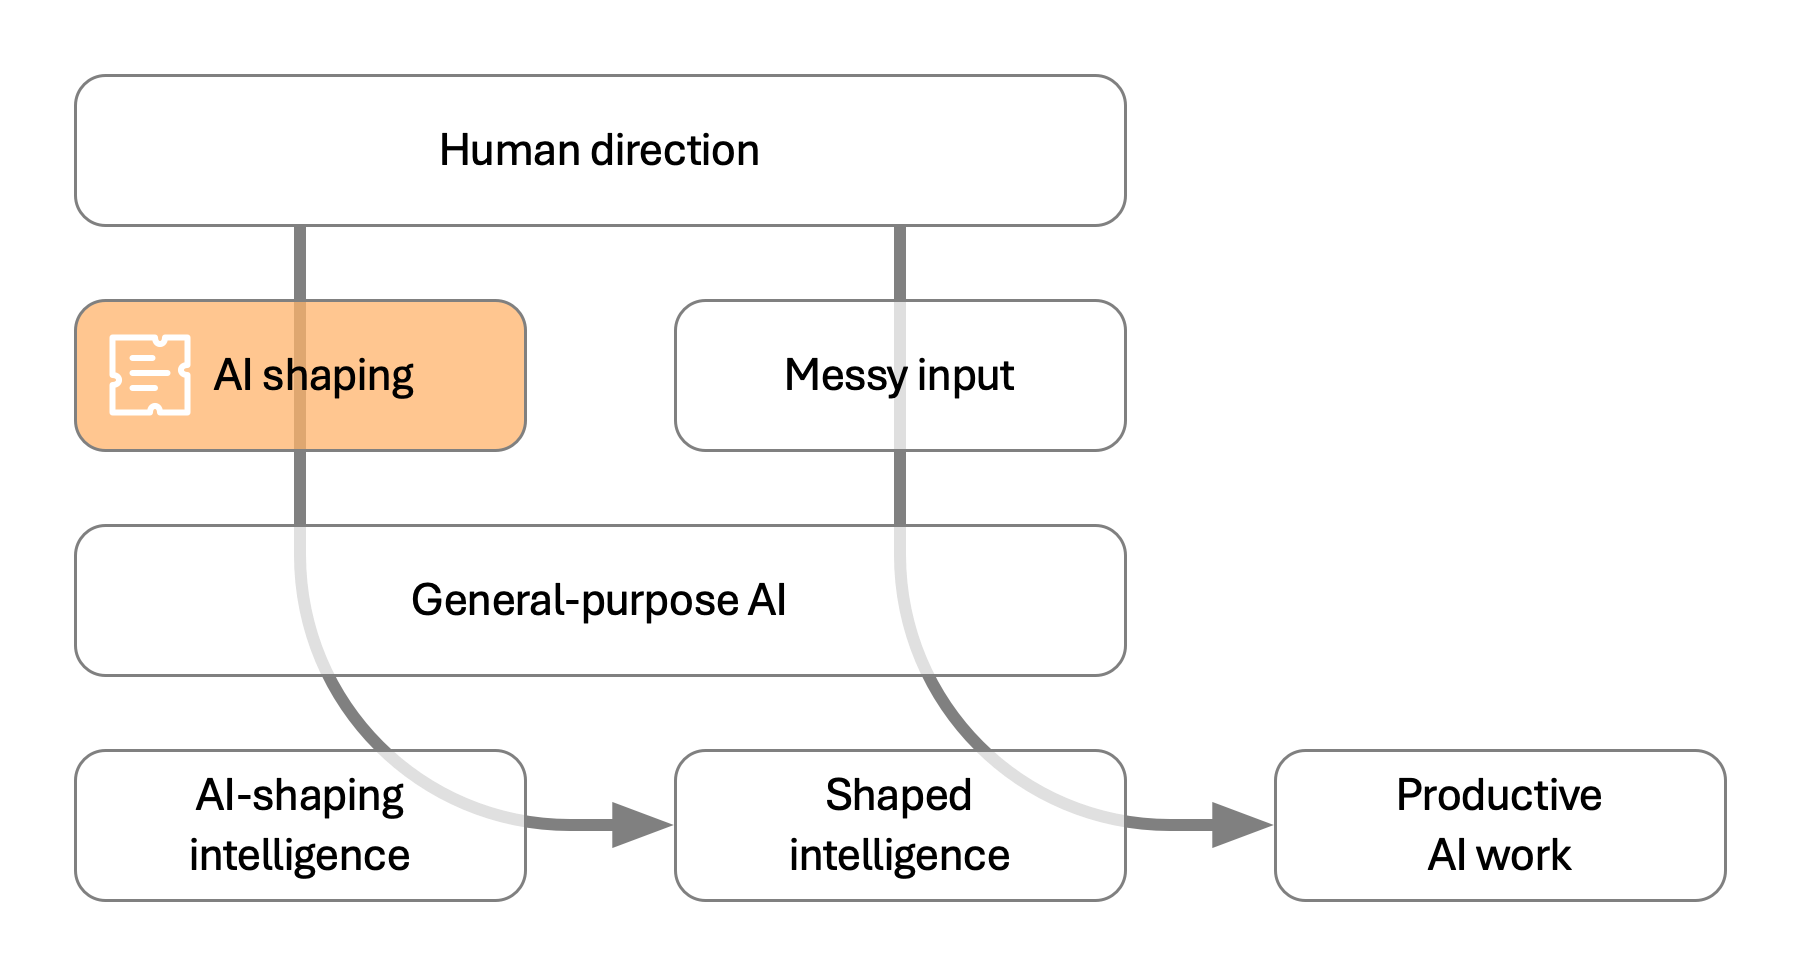
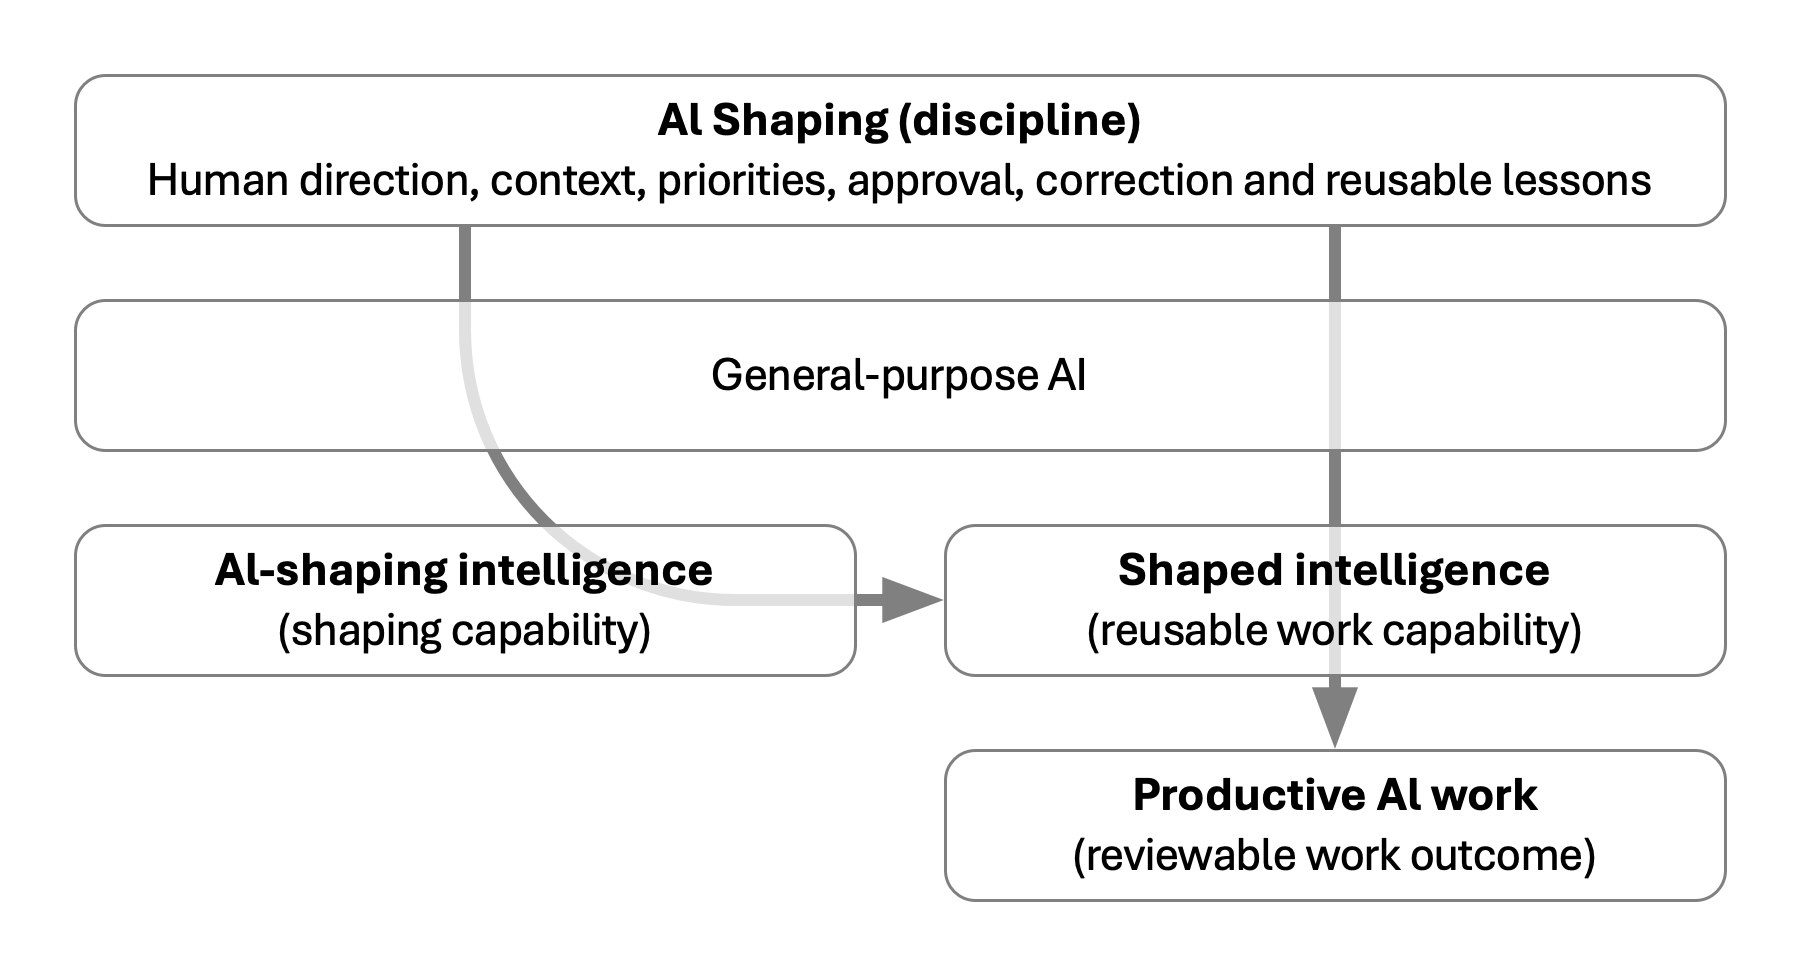
Use canonical universal hero diagrams

diff --git a/ai-shaping/index.html b/ai-shaping/index.html
@@ -79,7 +79,7 @@
 <h1>AI shaping turns useful AI output into productive AI work</h1>
 <p class="lead">AI shaping gives general-purpose AI a practice-guided, subject-aware work pattern and work state so useful output can become grounded, reviewable, repeatable and resumable productive AI work under human direction.</p>
 <figure class="figure-card hero-diagram">
-<img alt="Concept-stack diagram highlighting AI shaping as the operating-model discipline that supports productive AI work under human direction." decoding="async" fetchpriority="high" height="975" loading="eager" src="/assets/images/ai-shaping-concept-stack-diagram.png" width="1800"/>
+<img alt="Concept-stack diagram highlighting AI shaping as the operating-model discipline that supports productive AI work under human direction." width="1800" height="975" decoding="async" fetchpriority="high" loading="eager" src="/assets/images/ai-shaping-concept-stack-diagram.png"/>
 <figcaption>AI shaping is the operating-model discipline that gives general-purpose AI a reusable work pattern under human direction.</figcaption>
 </figure>
 </section>
@@ -114,10 +114,12 @@
 <h2>Concept stack in one view</h2>
 <p>AI shaping sits above the work capability it creates. Human direction, context, priorities, approval, correction and reusable lessons guide AI-shaping intelligence; AI-shaping intelligence shapes reusable work capability; shaped intelligence supports productive AI work as a reviewable work outcome.</p>
 <figure class="figure-card">
-<picture>
-<source media="(prefers-color-scheme: dark)" srcset="/assets/images/ai-shaping-concept-stack-diagram-dark-transparent.png"/>
-<img alt="Diagram showing AI shaping as a discipline where human direction, context, priorities, approval, correction and reusable lessons guide AI-shaping intelligence, which shapes reusable work capability and supports productive AI work." decoding="async" height="723" loading="lazy" src="/assets/images/ai-shaping-concept-stack-diagram-light-transparent.png" width="1302"/>
-</picture>
+<img
+  src="/assets/images/ai-shaping-concept-stack-diagram.png"
+  alt="Diagram showing AI shaping as a discipline where human direction, context, priorities, approval, correction and reusable lessons guide AI-shaping intelligence, which shapes reusable work capability and supports productive AI work." width="1800" height="975"
+  loading="lazy"
+  decoding="async"
+/>
 <figcaption>AI shaping uses human direction, context, priorities, approval, correction and reusable lessons to shape AI capability into reusable work capability and productive AI work.</figcaption>
 </figure>
 </section>

diff --git a/index.html b/index.html
@@ -191,10 +191,12 @@
 <h2>Concept stack, compact</h2>
 <p>The formal terms are secondary to the practical value: <a href="/ai-shaping/">AI shaping</a> is the discipline; <a href="/ai-shaping-intelligence/">AI-shaping intelligence</a> builds and renews the shaping pattern; <a href="/shaped-intelligence/">shaped intelligence</a> carries reusable domain-facing work capability; <a href="/productive-ai-work/">productive AI work</a> is the grounded, reviewable, repeatable and resumable work outcome under human direction.</p>
 <figure class="figure-card">
-<picture>
-<source media="(prefers-color-scheme: dark)" srcset="/assets/images/ai-shaping-concept-stack-diagram-dark-transparent.png"/>
-<img alt="Diagram showing AI shaping as a discipline where human direction, context, priorities, approval, correction and reusable lessons guide AI-shaping intelligence, which shapes reusable work capability and supports productive AI work." decoding="async" height="723" loading="lazy" src="/assets/images/ai-shaping-concept-stack-diagram-light-transparent.png" width="1302"/>
-</picture>
+<img
+  src="/assets/images/ai-shaping-concept-stack-diagram.png"
+  alt="Diagram showing AI shaping as a discipline where human direction, context, priorities, approval, correction and reusable lessons guide AI-shaping intelligence, which shapes reusable work capability and supports productive AI work." width="1800" height="975"
+  loading="lazy"
+  decoding="async"
+/>
 <figcaption>The concept stack is available for readers who want the formal terms after the value proposition is clear.</figcaption>
 </figure>
 </section>

diff --git a/work-burden-shift/index.html b/work-burden-shift/index.html
@@ -79,7 +79,7 @@
 <h1>Work-burden shift shows what AI shaping changes</h1>
 <p class="lead">Work-burden shift is the before/after signal that AI is carrying more of the work pattern, domain-practice application, subject-context reasoning and work state while humans keep judgement, approval and real-world action.</p>
 <figure class="figure-card hero-diagram">
-<img alt="Before and after diagram showing work burden shifting from human reconstruction in ordinary AI use to shaped intelligence carrying context, practice guidance and subject context under AI shaping." decoding="async" fetchpriority="high" height="978" loading="eager" src="/assets/images/work-burden-shift-before-after-diagram.png" width="1800"/>
+<img alt="Before and after diagram showing work burden shifting from human reconstruction in ordinary AI use to shaped intelligence carrying context, practice guidance and subject context under AI shaping." width="1800" height="975" decoding="async" fetchpriority="high" loading="eager" src="/assets/images/work-burden-shift-before-after-diagram.png"/>
 <figcaption>AI shaping shifts more recurring reconstruction, interpretation, practice-guidance and subject-context burden from the human to shaped intelligence, while human review, decision, sending and escalation remain intact.</figcaption>
 </figure>
 </section>

diff --git a/docs/site-governance.md b/docs/site-governance.md
@@ -260,7 +260,7 @@ Use this allocation as the canonical hero-image map:
 |---|---|---|
 | `/` | `ai-shaping-to-productive-ai-work-diagram.png` | Homepage value path from AI shaping and general-purpose AI to productive AI work. |
 | `/ai-shaping-in-5-minutes/` | `ai-shaping-to-productive-ai-work-diagram.png` | Cold-reader value path before formal terminology. |
-| `/ai-shaping/` | `ai-shaping-concept-stack-diagram.png` | Highlight the AI shaping category term. |
+| `/ai-shaping/` | `ai-shaping-concept-stack-diagram.png` | Show AI shaping as the discipline that guides general-purpose AI through AI-shaping intelligence and shaped intelligence into productive AI work under human direction. |
 | `/ai-shaping-intelligence/` | `ai-shaping-intelligence-concept-stack-diagram.png` | Highlight the reusable shaping capability. |
 | `/shaped-intelligence/` | `shaped-intelligence-concept-stack-diagram.png` | Highlight the reusable domain-facing capability. |
 | `/productive-ai-work/` | `productive-ai-work-concept-stack-diagram.png` | Highlight the outcome: productive AI work. |
@@ -282,7 +282,7 @@ Hero diagram rules:
 - Use lowercase, hyphenated, descriptive PNG filenames that include the primary keyword and diagram type.
 - Do not use `highlighted`, version suffixes or duplicate fallback filenames in public image names.
 - Each hero image must have descriptive alt text and a caption that reinforces the page role without adding new claims.
-- If a neutral fallback image is kept for internal use, document it as an alternative, not as a separate page assignment.
+- If an alternative or fallback image is kept for internal use, document it as an internal alternative only; do not reference it from public HTML unless it is intentionally part of the public image strategy.
 
 
 ## 15A. Site icon and favicon governance
@@ -472,3 +472,10 @@ If a future development note would reveal protected method detail, keep it out o
 `README.md`, `README-upload.txt` and files under `docs/` are repository-maintenance artefacts. They support source control, not the public reader journey.
 
 They should not be linked from public navigation, included in `sitemap.xml`, or used as public explanations of AI shaping. If a repository or governance note must become reader-facing, convert it into a governed HTML page with title, H1, metadata, canonical URL, sitemap decision and public/protected boundary review.
+
+### Hero diagram variant discipline
+
+- Prefer one stable canonical hero image per page that works in both light and dark presentation contexts.
+- Do not keep separate light/dark public image variants unless a specific accessibility or legibility need is documented.
+- When replacing an image with changed dimensions, update the corresponding HTML `width` and `height` attributes.
+- When removing an image variant, remove all `<picture>`, `<source>` and `<img>` references to the deleted filename.

diff --git a/README.md b/README.md
@@ -38,6 +38,8 @@ H1: Primary phrase + reader outcome or page promise
 
 The site uses page-specific hero diagrams to improve reader orientation and search alignment. Concept pages use concept-stack diagrams where the highlighted box matches the page's primary keyword. Paper, public-evaluation and protected-stage pages use paper-route diagrams so readers can distinguish category definition, capability evidence, public-stage evaluation and protected-stage discussion. Evidence-instance pages use evidence transformation diagrams, and mechanism pages use before/after diagrams where that gives the reader the clearest mental picture.
 
+The site prefers one stable, universal hero image per assigned page that works in both light and dark presentation contexts. Avoid separate light/dark image variants unless there is a documented accessibility or legibility reason.
+
 Hero image assignments, captions, alt text and filename rules are governed in `docs/site-governance.md`.
 
 ## Site icon and favicon system